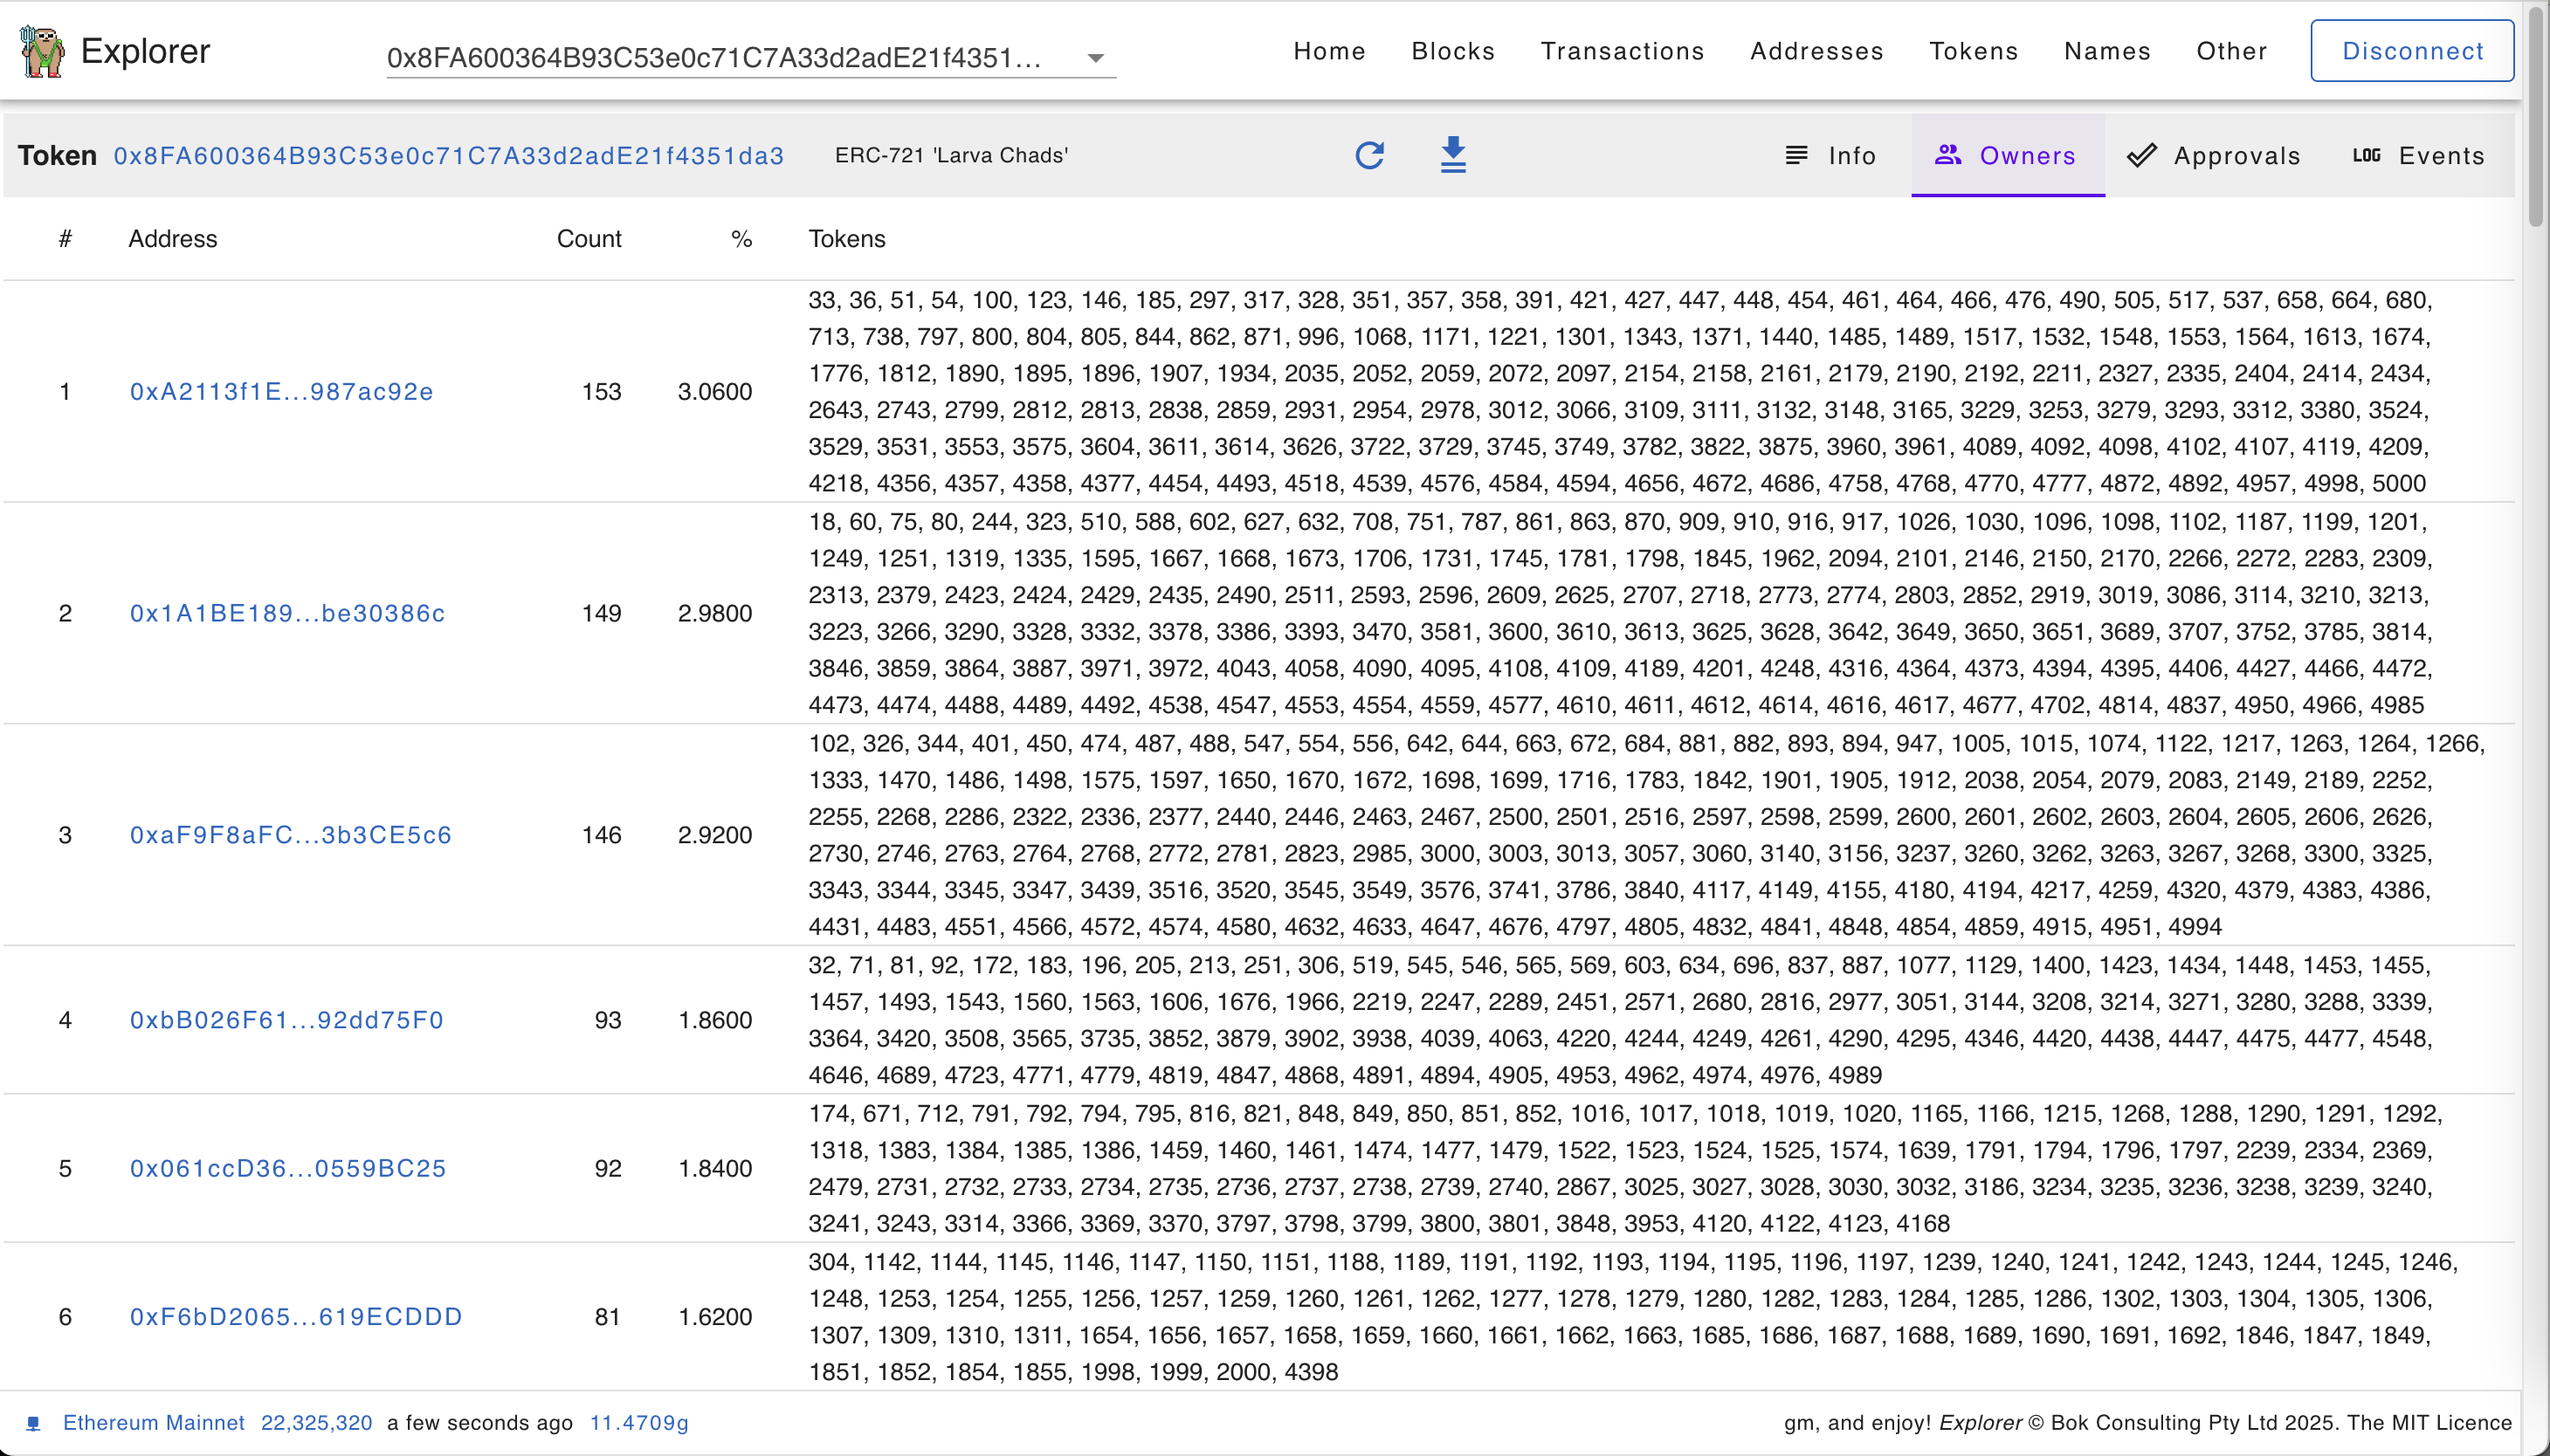
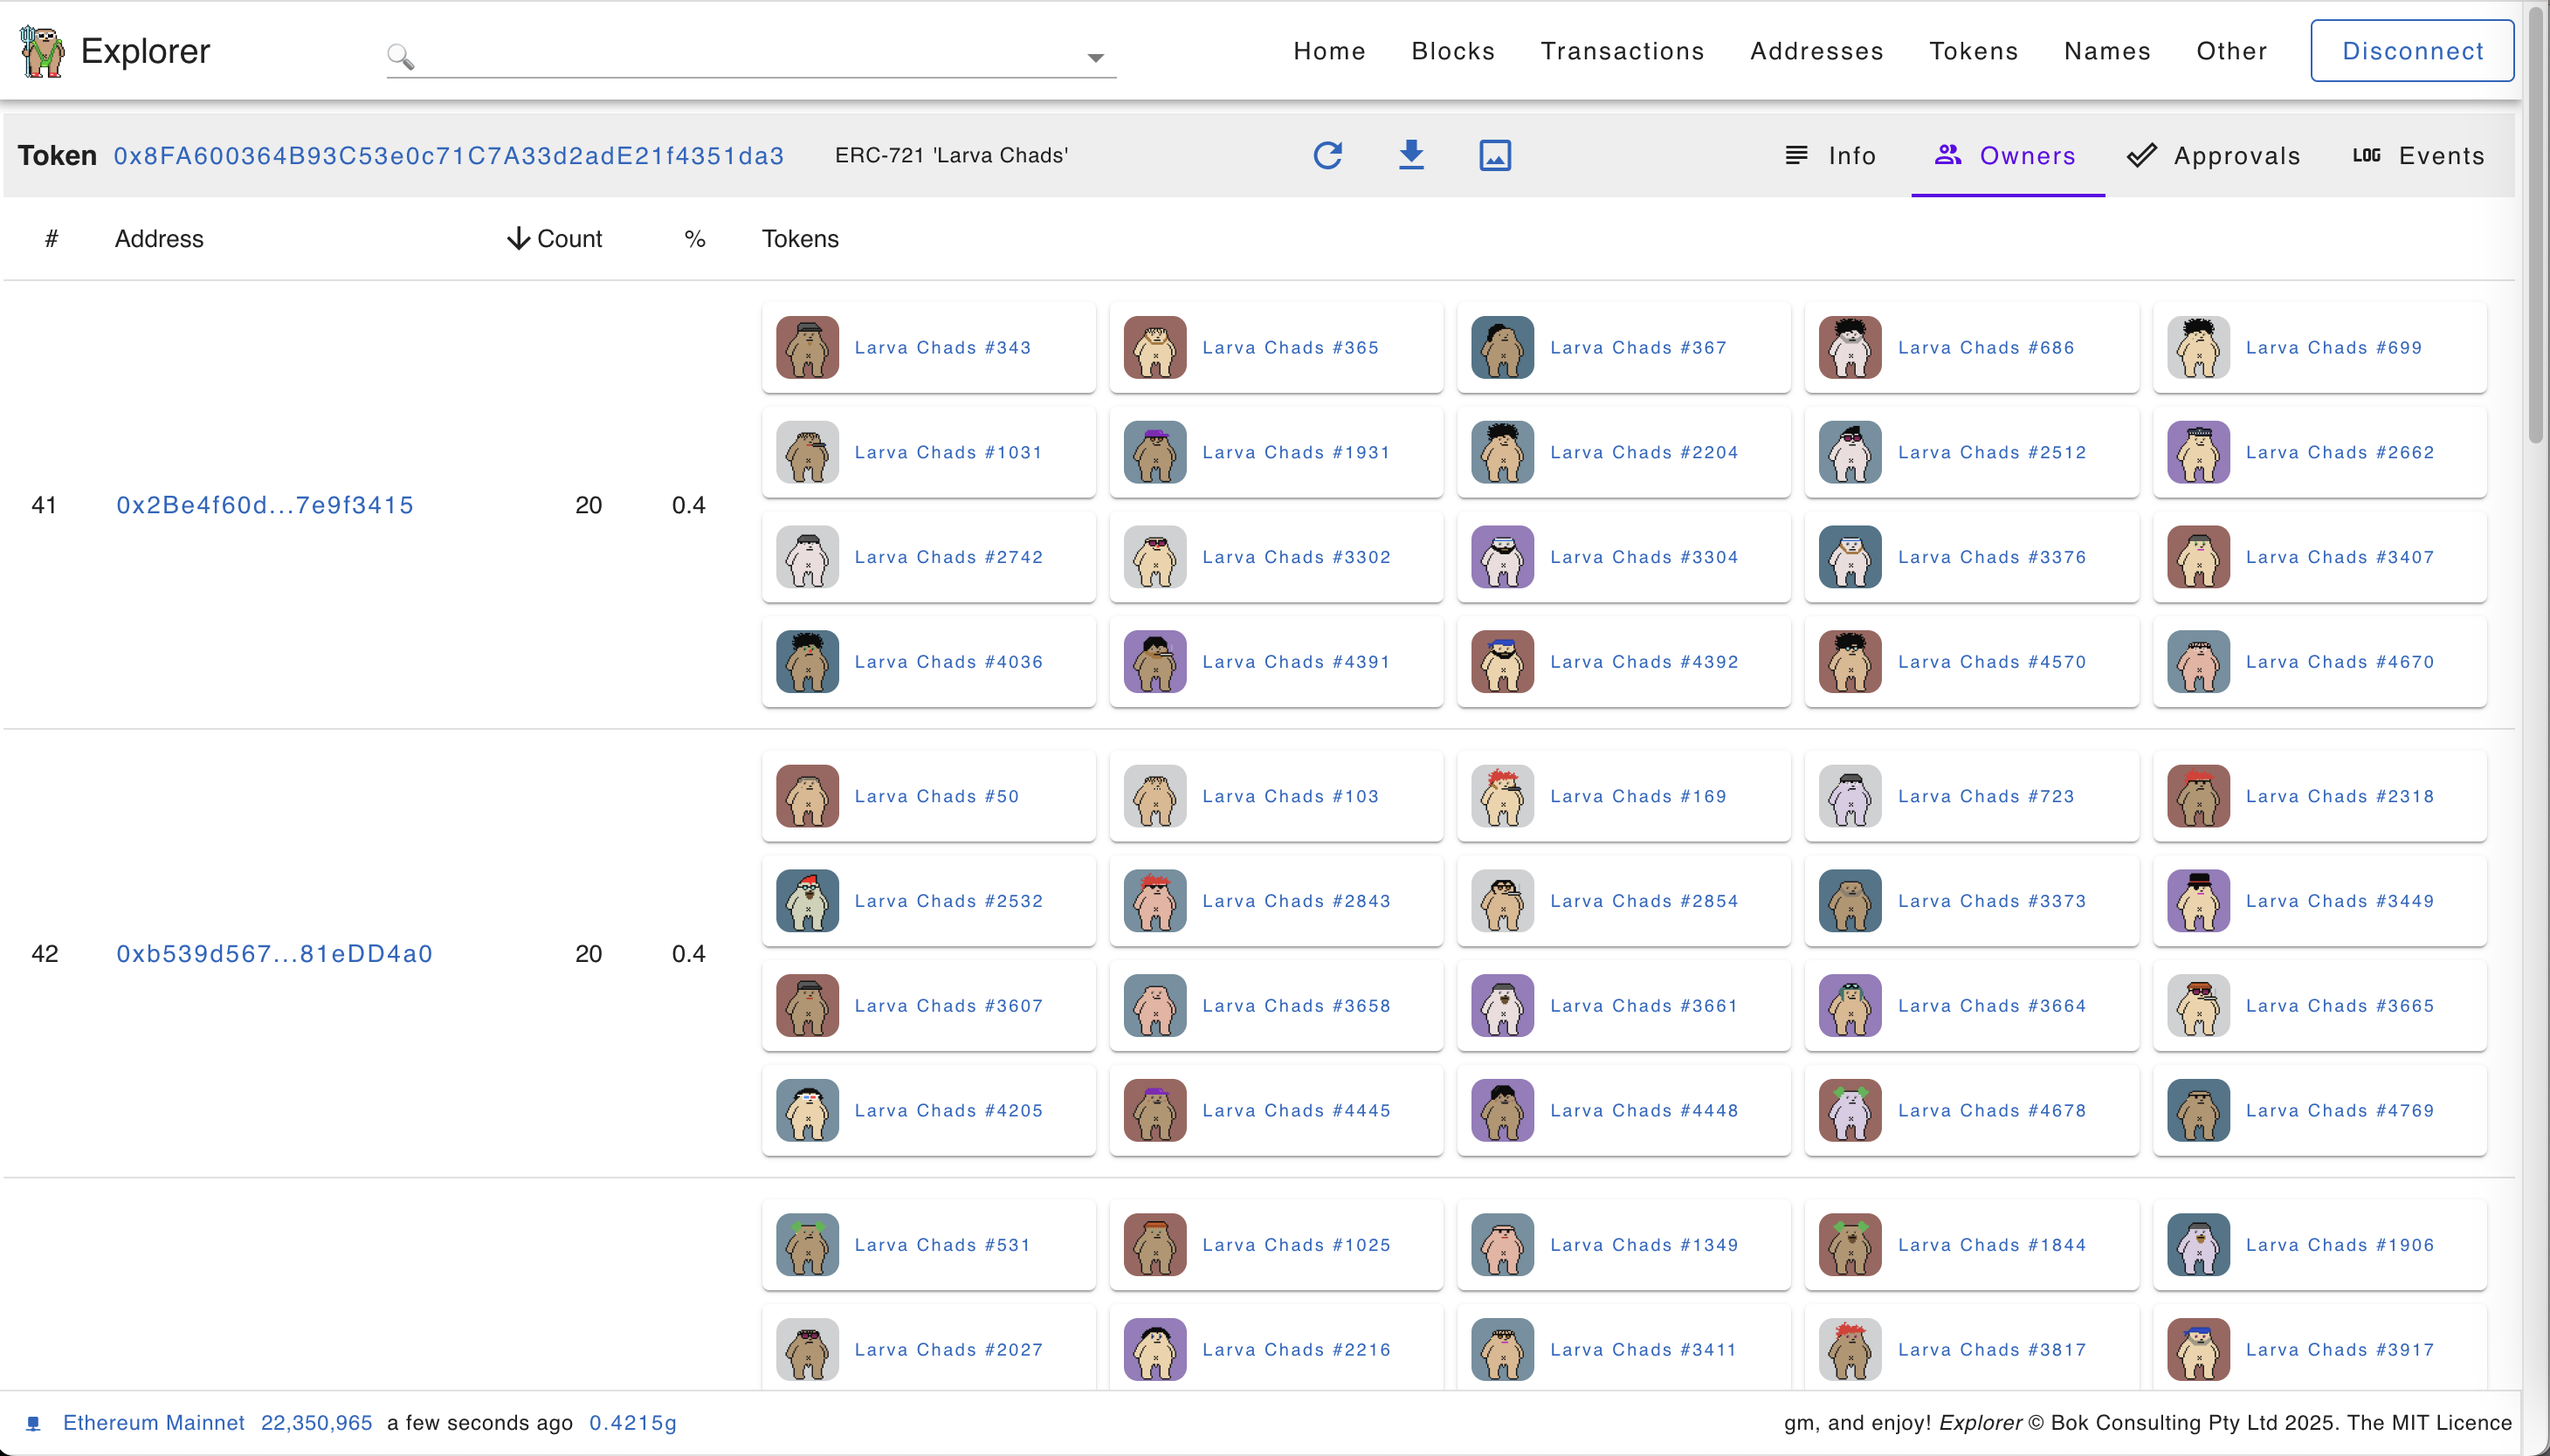
token images and screenshots

diff --git a/docs/renderTokenId.js b/docs/renderTokenId.js
@@ -1,53 +1,55 @@
 const RenderTokenId = {
   template: `
-    <v-menu location="bottom">
-      <template v-slot:activator="{ props }">
-        <v-btn v-if="token != null && tokenId != null" color="primary" dark v-bind="props" variant="text" :class="noXPadding ? 'ma-0 my-2 px-0 lowercase-btn' : 'ma-0 my-2 px-2 lowercase-btn'" style="min-width: 0px;">
-          <v-img v-if="image" :src="image" contain style="border-radius: 8px; height: 36px; width: 36px;"></v-img>
-          <!-- {{ commify0(tokenId) }} -->
-          <v-chip size="x-small" variant="text">
-            {{ name ? name : commify0(tokenId) }}
+    <v-card>
+      <v-menu location="bottom">
+        <template v-slot:activator="{ props }">
+          <v-btn v-if="token != null && tokenId != null" color="primary" dark v-bind="props" variant="text" :class="noXPadding ? 'ma-0 my-2 px-0 lowercase-btn' : 'ma-0 my-2 px-2 lowercase-btn'" style="min-width: 0px;">
+            <v-img v-if="image" :src="image" contain style="border-radius: 8px; height: 36px; width: 36px;"></v-img>
+            <!-- {{ commify0(tokenId) }} -->
+            <v-chip size="x-small" variant="text">
+              {{ name ? name : commify0(tokenId) }}
+            </v-chip>
+          </v-btn>
+          <v-chip v-if="count != null" size="small" variant="plain">
+            {{ 'x' + commify0(count) }}
           </v-chip>
-        </v-btn>
-        <v-chip v-if="count != null" size="small" variant="plain">
-          {{ 'x' + commify0(count) }}
-        </v-chip>
-      </template>
-      <v-list>
-        <v-list-subheader>Token {{ token + ':' + tokenId }}</v-list-subheader>
-        <v-list-item :href="'https://opensea.io/item/ethereum/' + token + '/' + tokenId" target="_blank">
-          <!-- https://opensea.io/item/ethereum/0xb32979486938aa9694bfc898f35dbed459f44424/10063 -->
-          <template v-slot:prepend>
-            <v-icon>mdi-link-variant</v-icon>
-          </template>
-          <v-list-item-title>View in opensea.io</v-list-item-title>
-        </v-list-item>
-        <!-- <v-list-item :href="'#/address/' + resolvedAddress">
-          <template v-slot:prepend>
-            <v-icon>mdi-arrow-right-bold-outline</v-icon>
-          </template>
-          <v-list-item-title>View</v-list-item-title>
-        </v-list-item> -->
-        <!-- <v-list-item @click="copyToClipboard(resolvedAddress);">
-          <template v-slot:prepend>
-            <v-icon>mdi-content-copy</v-icon>
-          </template>
-          <v-list-item-title>Copy address to clipboard</v-list-item-title>
-        </v-list-item> -->
-        <!-- <v-list-item :href="explorer + 'address/' + resolvedAddress" target="_blank">
-          <template v-slot:prepend>
-            <v-icon>mdi-link-variant</v-icon>
-          </template>
-          <v-list-item-title>View this address in the explorer</v-list-item-title>
-        </v-list-item> -->
-        <!-- <v-list-item v-if="token" :href="explorer + 'token/' + token + '?a=' + resolvedAddress" target="_blank">
-          <template v-slot:prepend>
-            <v-icon>mdi-link-variant</v-icon>
-          </template>
-          <v-list-item-title>View token filtered by this address in the explorer</v-list-item-title>
-        </v-list-item> -->
-      </v-list>
-    </v-menu>
+        </template>
+        <v-list>
+          <v-list-subheader>Token {{ token + ':' + tokenId }}</v-list-subheader>
+          <v-list-item :href="'https://opensea.io/item/ethereum/' + token + '/' + tokenId" target="_blank">
+            <!-- https://opensea.io/item/ethereum/0xb32979486938aa9694bfc898f35dbed459f44424/10063 -->
+            <template v-slot:prepend>
+              <v-icon>mdi-link-variant</v-icon>
+            </template>
+            <v-list-item-title>View in opensea.io</v-list-item-title>
+          </v-list-item>
+          <!-- <v-list-item :href="'#/address/' + resolvedAddress">
+            <template v-slot:prepend>
+              <v-icon>mdi-arrow-right-bold-outline</v-icon>
+            </template>
+            <v-list-item-title>View</v-list-item-title>
+          </v-list-item> -->
+          <!-- <v-list-item @click="copyToClipboard(resolvedAddress);">
+            <template v-slot:prepend>
+              <v-icon>mdi-content-copy</v-icon>
+            </template>
+            <v-list-item-title>Copy address to clipboard</v-list-item-title>
+          </v-list-item> -->
+          <!-- <v-list-item :href="explorer + 'address/' + resolvedAddress" target="_blank">
+            <template v-slot:prepend>
+              <v-icon>mdi-link-variant</v-icon>
+            </template>
+            <v-list-item-title>View this address in the explorer</v-list-item-title>
+          </v-list-item> -->
+          <!-- <v-list-item v-if="token" :href="explorer + 'token/' + token + '?a=' + resolvedAddress" target="_blank">
+            <template v-slot:prepend>
+              <v-icon>mdi-link-variant</v-icon>
+            </template>
+            <v-list-item-title>View token filtered by this address in the explorer</v-list-item-title>
+          </v-list-item> -->
+        </v-list>
+      </v-menu>
+    </v-card>
   `,
   props: {
     token: {

diff --git a/docs/token.js b/docs/token.js
@@ -168,10 +168,18 @@ nftOwnersList: {{ nftOwnersList }}
               </template>
               <template v-slot:item.tokens="{ item }">
                 <span v-if="type == 'erc721'">
-                  <render-token-id v-for="token in item.tokens" :tokenId="token" :token="address" :metadata="metadata"></render-token-id>
+                  <v-row dense class="my-2">
+                    <v-col v-for="(token, index) in item.tokens" :key="index">
+                      <render-token-id :tokenId="token" :token="address" :metadata="metadata"></render-token-id>
+                    </v-col>
+                  </v-row>
                 </span>
                 <span v-else>
-                  <render-token-id v-for="token in item.tokens" :tokenId="token.tokenId" :count="token.count" :token="address" :metadata="metadata"></render-token-id>
+                  <v-row dense class="my-2">
+                    <v-col v-for="(token, index) in item.tokens" :key="index">
+                      <render-token-id :tokenId="token.tokenId" :count="token.count" :token="address" :metadata="metadata"></render-token-id>
+                    </v-col>
+                  </v-row>
                 </span>
               </template>
             </v-data-table>
